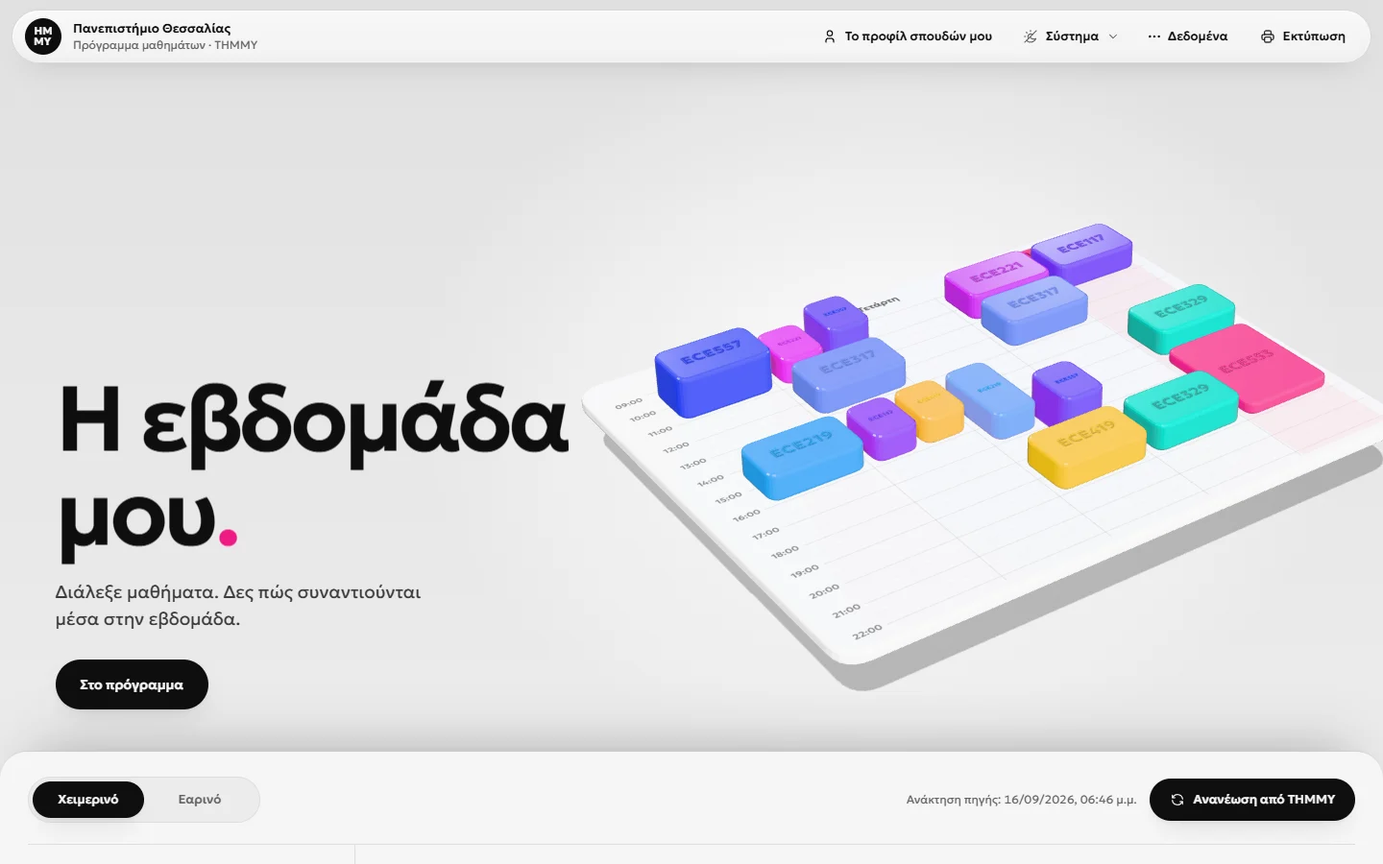
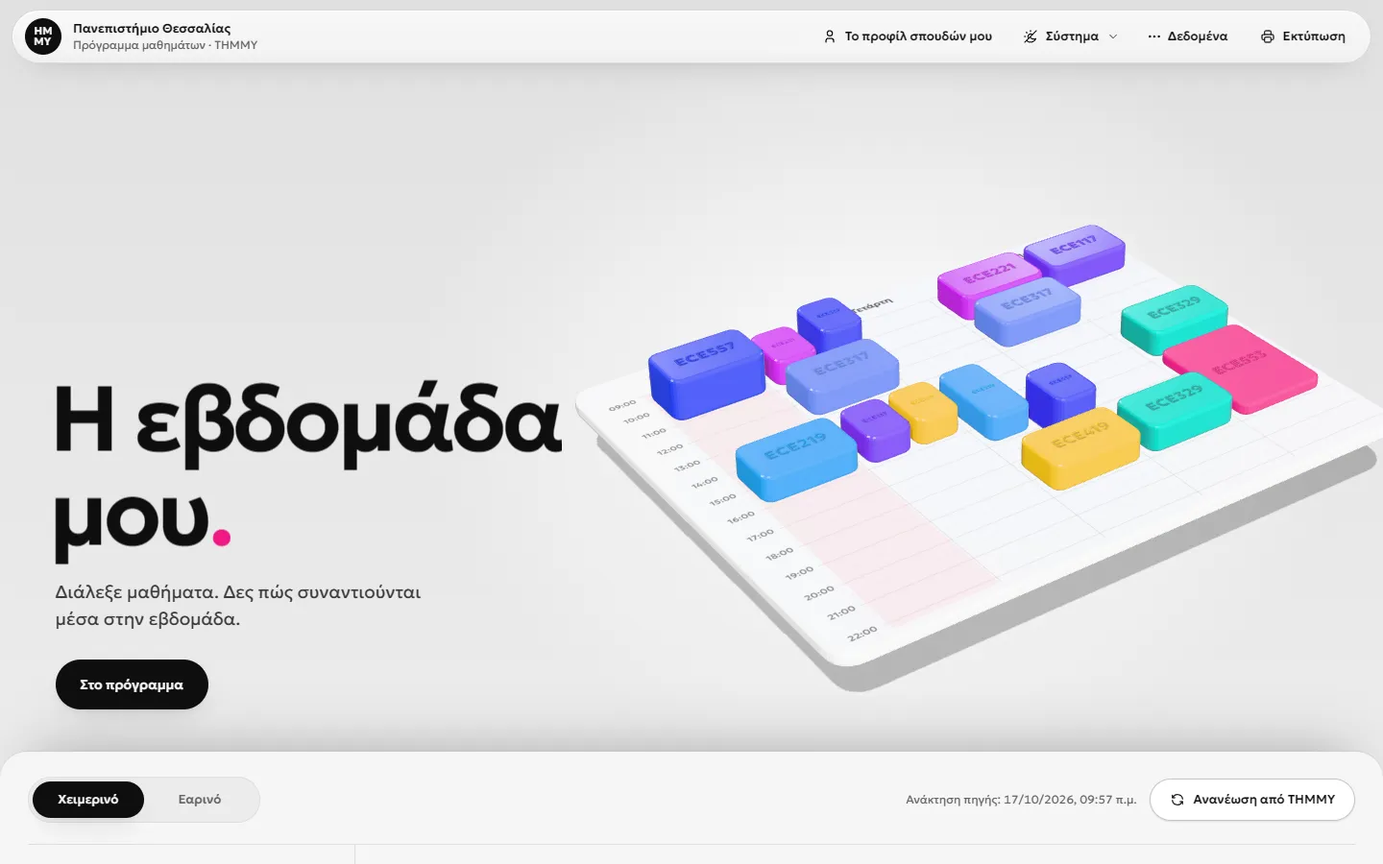
Bring the docs and screenshots up to date
PRODUCT.md no longer invites a redesign or new dependencies, README explains the tests and drops the bundled Noto fonts, DESIGN.md and its mirrors describe the polished blocks, buttons, focus and sheet, and the screenshots show the current UI. .gitignore loses two entries from an abandoned build.

diff --git a/DESIGN.md b/DESIGN.md
@@ -279,18 +279,18 @@ The world is modelled on butter.video, chosen by the user. Rejected and not to r
 A monochrome studio with one neon voice; all saturation is reserved for courses.
 
 ### Primary
-- **Neon Hot Pink** (`neon-pink`, dark `dark-neon-pink`): the headline's full stop, today's day pill, the today column wash (5% mix), the course "add" hover, the rail button's count badge, link hover underlines, selection and caret. Text on it is always ink (`on-accent`). Its hover step is `neon-pink-hover`.
+- **Neon Hot Pink** (`neon-pink`, dark `dark-neon-pink`): the headline's full stop, today's day pill, the today column wash (5% mix), the course "add" hover (fine pointers only), the rail button's count badge, link hover underlines, selection and caret. Text on it is always ink (`on-accent`). Its hover step is `neon-pink-hover`.
 
 ### Neutral
 - **Studio Grey** (`studio-grey` / `dark-studio-grey`): page ground behind the hero and around the sheet.
 - **Studio Floor and Glow** (`studio-floor`, `studio-glow` and dark pair): the hero's vertical gradient and the radial key-light pool behind the 3D board.
 - **Planner Sheet** (`planner-sheet` / `dark-planner-sheet`): the sheet that rises over the hero; also the text colour on ink pills.
-- **Surfaces** (`surface`, `surface-2`, `surface-3` and dark counterparts): raised cards, dialogs and menus (`surface`); input wells, segmented tracks and callouts (`surface-2`); tags and skeleton peaks (`surface-3`).
+- **Surfaces** (`surface`, `surface-2`, `surface-3` and dark counterparts): raised cards, dialogs and menus (`surface`); input wells, segmented tracks, callouts, the empty state and a selected course's add button (`surface-2`); tags, skeleton peaks and, in dark mode, a selected course's add button (`surface-3`, since dark `surface-2` barely parts from the row).
 - **Hairlines** (`hairline`, `hairline-strong`): 1px dividers between rail rows, day columns and stat cells; strong hairlines for button borders and unchecked swatches.
 - **Ink** (`ink`, `ink-2`, `ink-3`): text, primary buttons, the brand mark, the season thumb, focus rings. Ink-3 is the floor for meta text.
 
 ### Course palette
-Nine vivid hues assigned per course by default, cycling without repeats among selected courses: cobalt, hot pink, tangerine, violet, aqua, lemon, sky, orchid, periwinkle. Blocks use the hue at full strength with a white top sheen; in dark mode the hue is mixed 90% with the surface. Text on a block is ink or white, whichever gives higher WCAG contrast against the hue. In the 3D hero the same hues are darkened to 90% lightness under a full clearcoat; as the board lands, each slab top shifts to its block's exact flat fill so the hand-over is seamless. An empty week shows chrome sample slabs.
+Nine vivid hues assigned per course by default, cycling without repeats among selected courses: cobalt, hot pink, tangerine, violet, aqua, lemon, sky, orchid, periwinkle. Blocks use the hue at full strength with a lit top lip: a crisp 1px white top highlight over a white gradient that is gone 9px down, above the text (the narrowest lanes start their glyphs 8px down, where every hue still clears 4.5:1), because a taller sheen behind white text pushed cobalt (light) and dark violet below 4.5:1. In dark mode the hue is mixed 90% with the surface. Text on a block is ink or white, whichever gives higher WCAG contrast against the fill it sits on: the hue in light mode, the 90% mix in dark mode. In the 3D hero the same hues are darkened to 90% lightness under a full clearcoat; as the board lands, each slab top shifts to its block's exact flat fill so the hand-over is seamless. An empty week shows chrome sample slabs.
 
 ### Semantic
 - **Success** (passed course), **Warning** (needs review), **Danger** (overlap). Each has a soft companion at 7-12% alpha for callout fills.
@@ -300,18 +300,18 @@ Nine vivid hues assigned per course by default, cycling without repeats among se
 
 **The Colour Is the Course Rule.** Saturation belongs to the course palette. Chrome stays grey and ink; no course is ever grey, and no course hue is pure green, amber or red, so courses can never be mistaken for a state. One exception, accepted by the user: the liquid glass on the header pill and the hero tooltip saturates what lies beneath it (1.8), so a course passing under the frost reads as slightly richer colour, never as chrome colour. Over a cobalt slab the tooltip shows a faint blue with legible text; a coloured slab under the header pill is untested.
 
-**The Never Colour Alone Rule.** Every semantic state carries a second signal: passed is a filled green swatch plus a check icon; review is a dashed amber outline plus a hatch; overlap is a solid red outline plus a warning icon.
+**The Never Colour Alone Rule.** Every semantic state carries a second signal: passed is a filled green swatch plus a check icon; review is a dashed amber outline plus a hatched strip; overlap is a solid red outline plus a warning icon.
 
 ## Typography
 
-**Display Font:** Geologica (self-hosted Greek and Latin subsets, variable 300-800), with Noto Sans and system-ui as fallback
+**Display Font:** Geologica (self-hosted Greek and Latin subsets, variable 300-800), with Noto Sans and system-ui as fallback (Noto Sans is only named in the stack; it is not bundled)
 **Body Font:** Geologica
 **Label/Mono Font:** Geologica; a monospace face appears only in the transfer-code textarea
 
 **Character:** One geometric grotesk with Greek built in, used at every size. Display sizes are heavy-ish and tightly tracked; working sizes stay plain and small, so the numbers and the headline do the shouting.
 
 ### Hierarchy
-- **Display** (620, clamp(52px, 7.2vw, 96px), 0.98, -0.04em): the two-line hero headline only, revealed line by line from masks. **Display phone** takes over at 860px and below.
+- **Display** (620, clamp(52px, 7.2vw, 96px), 0.98, -0.04em): the two-line hero headline only, revealed line by line from masks and pulled 0.07em left so the capital's side bearing lines up with the sub and the CTA. **Display phone** takes over at 860px and below.
 - **Stat** (560, clamp(40px, 4.4vw, 66px), 1.2, -0.04em): the four week totals, rendered as odometer digits; **Stat phone** (38px) at 860px and below.
 - **Headline** (600, 24px, 1.2, -0.03em): dialog titles.
 - **Title large** (600, 22px, 1.2, -0.025em): the empty-state title.
@@ -323,7 +323,7 @@ Nine vivid hues assigned per course by default, cycling without repeats among se
 - **Event title** (600, 13px, 1.25): course names inside blocks; time lines 11px 600.
 - **Meta** (400, 12px): course meta, sync time, footers, tooltips.
 - **Label** (600, 11.5px): tags, badges, counters, day-head meta. Sentence case, never uppercase.
-- **Print ramp** (print only): title 22px, stats 20px, day names 11px, event titles 9px, event times, rooms and day meta 8px. Teachers are dropped.
+- **Print ramp** (print only): title 22px (followed by the season and the data's date at 13px in ink-3), stats 20px, day names 11px, event titles 9px, event times, rooms and day meta 8px. Teachers are dropped.
 
 ### Named Rules
 **The Numbers Are the Headline Rule.** Figures are tabular everywhere, and the week's totals are set at display scale, not tucked into small chips.
@@ -335,8 +335,8 @@ Nine vivid hues assigned per course by default, cycling without repeats among se
 A week-first canvas inside a sheet. The hero is a full-viewport sticky studio (100svh, min 600px; 92svh on phones); the planner sheet overlaps it by 13svh (9svh on phones) and carries everything else. Content tracks a 2080px maximum with fluid 2vw gutters (16px on phones).
 
 - **Desktop (>1180px):** a 340px sticky course rail beside the week, divided by a hairline. On wide layouts the rail can be hidden so the week runs full-width, with the floating rail button to bring it back.
-- **Tablet (861-1180px):** the week takes the full width; the rail becomes a 340px side drawer floating 12px from the edges.
-- **Phone (<=860px):** the week becomes a vertical day-by-day agenda with sticky day headings; the rail becomes a bottom sheet (84dvh, grab handle, scrim); dialogs become bottom sheets; the sheet corners drop to the phone sheet radius.
+- **Tablet (861-1180px):** the week takes the full width; the rail becomes a 340px side drawer floating 12px from the edges. It slides in over 500ms and out in 200ms, and tabbing out of it closes it.
+- **Phone (<=860px):** the week becomes a vertical day-by-day agenda with sticky day headings; the rail becomes a bottom sheet (84dvh, grab handle, scrim; up in 500ms, down in 200ms) that a finger can drag down from its handle or heading, closing past 80px or on a quick downward flick (over 0.5px/ms at release) and otherwise springing back; dialogs become bottom sheets; the sheet corners drop to the phone sheet radius.
 - A floating ink "Μαθήματα" pill with the selected count opens the rail from anywhere once the planner is in view.
 
 Day headings (name, meta, today pill) are centred in their columns and reserve exactly two lines of meta (2.7em) so every day name aligns. Today's meta puts "Σήμερα" on its own line above "N συναντήσεις · N ώρες". On the phone agenda, headings are a left-aligned row and the word runs inline with a comma. Phones and print drop the two-line reservation.
@@ -344,26 +344,26 @@ Day headings (name, meta, today pill) are centred in their columns and reserve e
 Spacing runs on 4 / 8 / 12 / 16 / 22 / 28px; panels breathe at 22px vertical padding, the hour grid is 56px per hour, and the header bar is 76px (68px on phones).
 
 ### Named Rules
-**The No Sideways Week Rule.** The week never scrolls horizontally. The grid is a 54px hour axis plus five equal day columns, whatever they hold. Parallel lessons split their day into lanes, and narrow lanes step down by container width. At 112px or less a lane shows its start time and the name, set compact with soft hyphens at Greek syllable breaks. At 80px or less, and for lessons of an hour or less, it shows start time plus course code. At 60px or less it shows the code only. At 50px or less the shared ECE prefix drops and only the course number remains. The full name always stays in the tooltip and dialog. Margin notes move beside the week only when the busiest day still gets 150px per lane.
+**The No Sideways Week Rule.** The week never scrolls horizontally. The grid is a 54px hour axis (headed Ώρα) plus five equal day columns, whatever they hold. Parallel lessons split their day into lanes, and narrow lanes step down by container width. At 112px or less a lane shows its start time and the name, set compact with soft hyphens at Greek syllable breaks; wider lanes never hyphenate and wrap whole words. At 80px or less, and for lessons of an hour or less, it shows start time plus course code. At 60px or less it shows the code only. At 50px or less the shared ECE prefix drops and only the course number remains. The full name always stays in the tooltip and dialog. Margin notes move beside the week only when the busiest day still gets 150px per lane. There the checks are a sticky margin note that mirrors the rail, always open, with their summary as a heading rather than a toggle (out of the tab order), and the hairline dividing them from the week runs the full height of the sheet while the note stays put.
 
-**The Print Is Its Own Layout Rule.** Print is one A4 landscape sheet in the selected theme: chrome hidden, the sheet and blocks exactly as on screen (light or dark), no today marking, the week scaled to fit and forced fully visible, the print type ramp, all motion and shadows off. Nothing on the printed page sizes itself with viewport units, because Chrome's print preview resolves them against the browser window and a window-tall page spills a blank second sheet.
+**The Print Is Its Own Layout Rule.** Print is one A4 landscape sheet in the selected theme: chrome hidden, the sheet and blocks exactly as on screen (light or dark), no today marking, the title followed by the season and the data's date, the week scaled to fit and forced fully visible, the print type ramp, all motion, shadows and focus rings off. Nothing on the printed page sizes itself with viewport units, because Chrome's print preview resolves them against the browser window and a window-tall page spills a blank second sheet.
 
 ## Elevation & Depth
 
-A hybrid: soft, layered ambient shadows plus a 1px top highlight on raised surfaces in light mode; on ink, where shadows vanish, a hairline marks every raised edge instead. Real depth lives in the hero, where a physically lit 3D board sits on a shadow-catching floor. Lighting is tuned per theme: in light mode a strong key from the upper left with a soft rim, in dark mode a softer key with a stronger cool rim. The floor shadow is 24% in light mode and 60% in dark mode. The board carries hairline edge lines. In light mode it is near-white and clearcoated; in dark mode it is graphite, rougher, with little clearcoat. The 3D stage is its own fixed layer above the planner sheet. It is clipped away over the sheet's toolbar and stats band and over the docked rail, so the board slides under the planner's chrome. Frosted glass is reserved for things floating over content: the header pill (20px blur, 1.8 saturate), the hero tooltip (12px blur, 1.8 saturate) and the dialog backdrop (8px blur). The two floating surfaces, the header pill and the hero tooltip, are liquid glass: the event blocks' top sheen, and a rim lit from the upper left (a bright 1px top-left crescent, a faint lower-right line, a lens shade along the inner bottom and a soft inner edge glow) in place of the plain top highlight. The rim is a plain-CSS approximation; true refraction needs SVG filters in backdrop-filter, which only Chromium supports. Under reduced transparency both turn solid surface with no blur. The dialog backdrop stays plain frost with no rim.
+A hybrid: soft, layered ambient shadows plus a 1px top highlight on raised surfaces in light mode; on ink, where shadows vanish, a hairline marks every raised edge instead. Real depth lives in the hero, where a physically lit 3D board sits on a shadow-catching floor. Lighting is tuned per theme: in light mode a strong key from the upper left with a soft rim, in dark mode a softer key with a stronger cool rim. The floor shadow is 24% in light mode and 60% in dark mode. The board carries hairline edge lines. In light mode it is near-white and clearcoated; in dark mode it is graphite, rougher, with little clearcoat. The 3D stage is its own fixed layer above the planner sheet. It is clipped away over the sheet's toolbar and stats band and over the docked rail, so the board slides under the planner's chrome. Frosted glass is reserved for things floating over content: the header pill (20px blur, 1.8 saturate), the hero tooltip (12px blur, 1.8 saturate) and the dialog backdrop (8px blur). The two floating surfaces, the header pill and the hero tooltip, are liquid glass: a white top sheen that fades out by 46% of the height, and a rim lit from the upper left (a bright 1px top-left crescent, a faint lower-right line, a lens shade along the inner bottom and a soft inner edge glow) in place of the plain top highlight. The rim is a plain-CSS approximation; true refraction needs SVG filters in backdrop-filter, which only Chromium supports. Under reduced transparency both turn solid surface with no blur. The dialog backdrop stays plain frost with no rim.
 
 ### Shadow Vocabulary
 - **Rest** (`0 1px 2px #0e0e0e12, 0 1px 1px #0e0e0e0a`): default buttons and event blocks.
 - **Lifted** (`0 12px 28px -12px #0e0e0e2e, 0 2px 6px -2px #0e0e0e14`): ink pills, the season thumb, hovered event blocks, tooltips.
 - **Floating** (`0 32px 64px -24px #0e0e0e40, 0 6px 16px -6px #0e0e0e17`): dialogs, menus, the rail drawer, the rail button.
 - **Highlight** (`inset 0 1px 0 #ffffffcc`): paired with lifted and floating surfaces.
-- **Glass rim** (light `inset 1px 1px 0 #ffffff, inset -1px -1px 0 #ffffff40, inset 0 -10px 16px -12px #0e0e0e14, inset 0 0 14px -6px #ffffffb3`; dark `inset 1px 1px 0 #ffffff47, inset -1px -1px 0 #ffffff1a, inset 0 -10px 16px -12px #00000066, inset 0 0 14px -6px #ffffff1f`): the header pill and the hero tooltip only, replacing the highlight there. It travels with the **glass sheen** (`linear-gradient(180deg, #ffffff66, #ffffff00 46%)`; dark `#ffffff26`, the event blocks' stop and dark strength) and, on the header pill, the **glass fill** (surface at 64% in light so the sheen and lit edge read, 72% in dark); the tooltip keeps its 86% surface fill and, in dark, its hairline.
+- **Glass rim** (light `inset 1px 1px 0 #ffffff, inset -1px -1px 0 #ffffff40, inset 0 -10px 16px -12px #0e0e0e14, inset 0 0 14px -6px #ffffffb3`; dark `inset 1px 1px 0 #ffffff47, inset -1px -1px 0 #ffffff1a, inset 0 -10px 16px -12px #00000066, inset 0 0 14px -6px #ffffff1f`): the header pill and the hero tooltip only, replacing the highlight there. It travels with the **glass sheen** (`linear-gradient(180deg, #ffffff66, #ffffff00 46%)`; dark `#ffffff26`; the event blocks' lip is a weaker cousin, light `#ffffff2e` and dark `#ffffff1c`, gone 9px down) and, on the header pill, the **glass fill** (surface at 64% in light so the sheen and lit edge read, 72% in dark); the tooltip keeps its 86% surface fill and, in dark, its hairline.
 - **Sheet rise** (`0 -30px 60px -34px #0e0e0e59`): under the planner sheet's top edge where it overlaps the hero.
 
 ### Named Rules
 **The Press, Don't Lift Rule.** Controls press (scale 0.96 on active) and never rise on hover. Only event blocks lift (2px) on hover, because they are objects on the board, and only where a fine pointer can hover ((hover: hover) and (pointer: fine)), so a tap never leaves a block stuck raised.
 
-**The Rings Inside Rule.** State and highlight outlines on event blocks sit inside the block (negative offset), never outside it.
+**The Rings Inside Rule.** State and highlight outlines on event blocks sit inside the block (negative offset), never outside it. Keyboard focus is the one ring outside: the 2px ink outline offset 2px, raised above the neighbouring lanes. A block with a state ring keeps it, and its focus ring is a shadow outside the block (a 2px sheet gap, then 2px ink), so a focused clash still shows red.
 
 **The Hairline in the Dark Rule.** In dark mode every raised surface (dialog, menu, tooltip, drawer, sheet) gets a 1px hairline edge, since shadows cannot read on ink.
 
@@ -376,11 +376,12 @@ Two shape families and nothing between them: everything pressable or countable i
 ### Buttons
 Pills that press, never lift.
 - **Shape:** full pill (999px), 38px minimum height, 1px strong hairline border.
-- **Default:** surface fill, rest shadow, 13px weight 550 label with an optional 16px Tabler stroke icon.
-- **Primary:** ink fill with sheet-coloured text and the lifted shadow; hover mixes 20% neon pink into the ink.
+- **Default:** surface fill, rest shadow, 13px weight 550 label with an optional 16px Tabler stroke icon. The refresh button in the sheet's toolbar is a default pill at 44px, not ink.
+- **Primary:** ink fill with sheet-coloured text and the lifted shadow; with a fine pointer, hover mixes 20% neon pink into the ink.
 - **Quiet:** transparent; hover is a 7% ink wash.
-- **Hero CTA and rail button:** 52px ink pills; the rail button carries a pink count badge and rises in only once the sheet docks.
-- **Active / Focus:** scale 0.96 on press; a 2px ink focus outline offset 2px.
+- **Hero CTA and rail button:** 52px ink pills; the rail button carries a pink count badge and rises in only once the sheet docks. Both take the primary hover.
+- **Coloured hovers** (the pink mix on ink pills, the pink and red fills on a rail row's add button) apply only under (hover: hover) and (pointer: fine), so a tap never leaves one stuck; neutral washes hover everywhere.
+- **Active / Focus:** scale 0.96 on press; a 2px ink focus outline offset 2px, the same on event blocks, checkboxes and the theme select.
 
 ### Chips
 - **Tags and badges:** pills on `surface-3` with ink-2 text at 11.5px weight 600; success, warning and danger variants use the soft fill and the state colour with an icon.
@@ -391,8 +392,9 @@ Pills that press, never lift.
 - **Corner Style:** 28px for the sheet and dialogs, 20px for menus and the drawer, 14px for callouts.
 - **Background:** `surface` for raised, `surface-2` for inset callouts and source rows.
 - **Shadow Strategy:** floating plus highlight for raised surfaces (see Elevation).
-- **Border:** transparent in light, hairline in dark; warning and danger callouts use a 24-30% tinted border on the soft fill.
+- **Border:** transparent in light, hairline in dark; warning and danger callouts use a 24-30% tinted border on the soft fill; a warning callout leads with a dot, a danger one with the warning icon.
 - **Internal Padding:** 28px dialogs, 11-16px callouts.
+- **Empty state:** an inset `surface-2` panel (20px corners, no border, no wash) with a tiny week glyph on a small raised card: five 16px day columns, one 3px-cornered block placed in each at its own hour (one of them pink, today), dropping in from above one after another, above the title and two lines of help.
 - **Dialogs in motion:** they rise in on the ease-out (450ms; phone bottom sheets slide up in 500ms). Closing, whether by a close button, Escape or a finished action, runs back the way they came: a fade with an 8px drop and 0.98 scale over 160ms on the ease-out, the frosted backdrop fading with it; phone bottom sheets slide back down (200ms). Instant under reduced motion.
 - **Update toast:** when a new version is published (sw.js has already cached its files), a pill on `surface` with the lifted shadow floats 10px under the header: "Υπάρχει νέα έκδοση." with a primary "Ανανέωση" and a quiet close. It eases in from above (400ms on the ease-out, from 10px higher at 0.96 scale) and, when closed, leaves upward the way it came (200ms); print and the HTML backup leave it out.
 - **Update report:** after a refresh or an import, a collapsed "Τι άλλαξε · N αλλαγές" card on `surface` sits right under the notice and lists what changed against the previous data, grouped as changed, added and removed meetings and catalog changes (season, code and name in ink, the detail in ink-2). The next notice hides it; print and the HTML backup leave it out.
@@ -400,17 +402,18 @@ Pills that press, never lift.
 ### Inputs / Fields
 - **Style:** 40px pill well on `surface-2` with a hairline border (44px with a leading icon for search).
 - **Focus:** border turns ink, a 3px 14%-ink ring appears, and the well brightens to `surface`.
-- **Checkboxes:** native, accent-coloured ink.
+- **Checkboxes:** native, accent-coloured ink; keyboard focus is the 2px ink outline offset 2px, not the field ring.
+- **File picker:** its button is a small surface pill with a strong hairline (hover `surface-2`).
 
 ### Navigation
-- **Header:** a fixed frosted pill floating 10px inside the viewport over the hero (brand mark, quiet profile, theme control, data menu, print). The theme control is one quiet pill: a leading icon that follows the choice (sun, moon, or sun-moon for system), the label and an inline chevron. As the sheet reaches it, a scroll-linked solid sheet-coloured bar fades in beneath it and it docks. On phones labels drop to 40px icon pills.
+- **Header:** a fixed frosted pill floating 10px inside the viewport over the hero (brand mark, quiet profile, theme control, data menu with Πηγές & ενημέρωση, Μεταφορά δεδομένων and Αποθήκευση αντιγράφου HTML, print). The theme control is one quiet pill: a leading ink icon that follows the choice (sun, moon, or sun-moon for system), the label and an inline ink-3 chevron; keyboard focus is the 2px ink outline. As the sheet reaches it, a scroll-linked solid sheet-coloured bar fades in beneath it and it docks. On phones labels drop to 40px icon pills.
 - **Season switch:** a segmented pill track whose ink thumb springs under the active season; switching re-deals the week. The old season's blocks lift away together, 8ms apart and capped at 120ms (skipped on the phone agenda); after 120ms the new season's blocks are dealt in by day, min(40, 360/n)ms apart, so the whole re-deal stays about half a second. The hero's 3D board re-deals through its normal rebuild: the old slabs shrink away and the new ones fall in with the squash, 40ms apart. Instant under reduced motion.
 
 ### Event Block (signature)
-The course as an object: a 12px block filled with the full course hue, a white top sheen, a 1px inner ink edge and the rest shadow; time on top (11px 600), title, then room and teacher at reduced opacity. Where a fine pointer can hover, hover lifts 2px to the lifted shadow; touch never lifts. Every ring is drawn inside the block's edge, so packed lanes never overlap their neighbours: review is a 2px dashed amber ring plus a hatch; conflict is a 2px red ring with a light inner band in the sheet colour, plus a warning icon. Hovering a rail row rings every block of that course with a 3px ink ring. The conflict trace pulses its red ring inward. When an added course creates a clash, only the block that was already on the week pulses, once and inward (ring offset -2px to -6px and back over 400ms on the there-and-back curve), timed to the newcomer's landing (600ms plus stagger after a flight, 150ms plus stagger after a dealt block); the newcomer never pulses. New blocks are dealt in Monday to Friday, 40ms apart (at most twelve steps), each pressing from scale 1.06 to size about its centre as it fades in, its shadow coming down from lifted to rest (220ms on the ease-out); a course flying in from the list is revealed the same way at the flight's landing (600ms). A removed block lifts away where it stood (180ms: the fade on a plain ease so it stays readable, a 1.04 scale on the ease-out), on the desktop grid only, and not when a neighbour widens into its lane or when the week becomes empty; a season switch lifts every old block away this way. While the 3D week stands in for the planner's blocks (mid-scroll, blocks below full opacity, no focus inside the week), the 2D blocks do not animate at all, with no press-in, lift-away, flight or clash pulse: a season switch, or a course added or removed mid-scroll, lands in 3D alone. Clicking grows the course dialog out of the block (400ms on the ease-out).
+The course as an object: a 12px block filled with the full course hue, a white top lip that is gone 9px down under a 1px top highlight, a 1px inner ink edge (white in dark) and the rest shadow; time on top (11px 600), title, then room and teachers (co-teachers joined by commas), all at full strength in the block's text colour. Where a fine pointer can hover, hover lifts 2px to the lifted shadow; touch never lifts. Keyboard focus draws the 2px ink outline offset 2px outside the block, above its neighbours; a block with a state ring keeps that ring, and its focus ring is drawn outside as a shadow (a 2px sheet gap, then 2px ink), so a focused clash still shows red. Every ring is drawn inside the block's edge, so packed lanes never overlap their neighbours: review is a 2px dashed amber ring plus a 10px hatched strip down the right edge, kept clear of the text; conflict is a 2px red ring with a light inner band in the sheet colour, plus a warning icon. Hovering a rail row rings every block of that course with a 3px ink ring. The conflict trace pulses its red ring inward. When an added course creates a clash, only the block that was already on the week pulses, once and inward (ring offset -2px to -6px and back over 400ms on the there-and-back curve), timed to the newcomer's landing (600ms plus stagger after a flight, 150ms plus stagger after a dealt block); the newcomer never pulses. New blocks are dealt in Monday to Friday, 40ms apart (at most twelve steps), each pressing from scale 1.06 to size about its centre as it fades in, its shadow coming down from lifted to rest (220ms on the ease-out); a course flying in from the list is revealed the same way at the flight's landing (600ms). A removed block lifts away where it stood (180ms: the fade on a plain ease so it stays readable, a 1.04 scale on the ease-out), on the desktop grid only, and not when a neighbour widens into its lane or when the week becomes empty; a season switch lifts every old block away this way. While the 3D week stands in for the planner's blocks (mid-scroll, blocks below full opacity, no focus inside the week), the 2D blocks do not animate at all, with no press-in, lift-away, flight or clash pulse: a season switch, or a course added or removed mid-scroll, lands in 3D alone. Clicking grows the course dialog out of the block (400ms on the ease-out).
 
 ### Course Rail Row
-A three-column row (12px state swatch, title and meta, 32px round add button) divided by hairlines. Adding a course flashes the row pink, pops the swatch, and flies a block on an arc from the swatch into each new slot of the week; a flight whose course is removed, or whose season is left, before it lands is dropped.
+A three-column row (12px state swatch, title and meta, 32px round add button with a hit area of at least 44px) divided by hairlines. The add button is a surface pill with a plus; once the course is selected it turns grey (`surface-2`, strong hairline, ink minus; in dark mode `surface-3` with no hairline, so selected and unselected rows still differ). With a fine pointer, hover fills it neon pink to add or danger red to remove. The list's last 28px fade out, so a row cut by the edge reads as more below, and bottom padding lets the last row scroll clear of the fade. Adding a course flashes the row pink, pops the swatch, and flies a block on an arc from the swatch into each new slot of the week; a flight whose course is removed, or whose season is left, before it lands is dropped.
 
 ### Stats
 Four cells divided by hairlines, a 12.5px label over a stat-scale odometer number whose digits spring to their new value with a 40ms stagger; overlaps turn the label and number danger red.
@@ -437,7 +440,7 @@ Free view lives only at the top of the page (scroll progress at most 0.002): gra
 - **Do** make primary actions ink pills; keep hot pink to small marks (full stop, today, counts, hover).
 - **Do** give every pressable thing a full pill shape and the 0.96 press.
 - **Do** let free-view interactions (orbit, zoom) yield to scroll and to the copy: plain wheel scrolls, the board springs home on scroll, and it never covers the headline.
-- **Do** pick block text colour by contrast (ink or white) for any course hue, including user-chosen ones.
+- **Do** pick block text colour by contrast (ink or white) for any course hue, including user-chosen ones, measured against the fill the text sits on (the dark-theme mix in dark mode).
 - **Do** pair every success, warning and danger state with an icon, dashes or an outline.
 - **Do** use the spring easing (`linear()` with ~5% overshoot, fallback cubic-bezier(.16,1,.3,1)) for things that settle into a new value or slot (digits, the season thumb, a block shifting lanes), the ease-out (cubic-bezier(.16,1,.3,1)) for the 2D press-in and for exits, and the there-and-back curve (cubic-bezier(.77,0,.175,1)) only for one-shot pulses that return to rest; make every animation, view transition, smooth scroll and 3D loop disappear under reduced motion.
 - **Do** deal tiles and blocks onto the week Monday to Friday (by day, then start time), 40ms apart and the whole deal held to about half a second (bigger weeks close the gap), with one landing per change: in 3D a fall that accelerates under gravity and ends in a squash, never a spring that overshoots into the board; in 2D a press from scale 1.06 to size about the block's centre, with a fade and the lifted shadow coming down to rest (220ms on the ease-out). While the 3D week stands in for the planner's blocks, the change lands in 3D alone.

diff --git a/README.md b/README.md
@@ -60,7 +60,7 @@ flowchart LR
 
 - **Nightly.** At 02:17 UTC, [`refresh-data.yml`](.github/workflows/refresh-data.yml) downloads the catalogue and both timetables. It parses them with the app's own [`source-parser.js`](assets/source-parser.js) in headless Chrome, so the result is exactly what the app would produce. It commits only when something changed, and refuses results that look broken (a shrunken catalogue, or a published timetable that came back empty).
 - **On your next visit,** the planner takes the new snapshot in the way a manual refresh does: your meeting choices are remapped, selected courses that left the catalogue are kept, and *Τι άλλαξε* shows the differences.
-- **On demand,** *Ανανέωση από ΤΗΜΜΥ* fetches the same pages from the browser through a public CORS proxy (r.jina.ai or allorigins, chosen in *Πηγές & ενημέρωση*). You can also import an official page you saved yourself.
+- **On demand,** *Ανανέωση από ΤΗΜΜΥ* fetches the same pages from the browser through a public CORS proxy (r.jina.ai or allorigins) or directly, chosen in *Πηγές & ενημέρωση*. You can also import an official page you saved yourself.
 
 ## Privacy
 
@@ -92,16 +92,17 @@ assets/
   motion.js               smooth scrolling (Lenis) and loading the 3D week
   week3d.js               the 3D week, bundled from src/week3d.js
   vendor/lenis.min.js
-  fonts/                  Geologica and Noto Sans subsets, with OFL.txt
+  fonts/                  Geologica subsets, with OFL.txt
   icons/                  app icons
 data/
   courses.json            catalogue and timetables, refreshed nightly
   guide.json              study-guide rules behind the checks
 src/week3d.js             source of the 3D week (Three.js)
 scripts/refresh-data.mjs  the nightly data refresh
+scripts/*.test.mjs        tests: week logic and transfer codes (app.test), the source parser in headless Chrome (parser.test)
 .github/workflows/        refresh-data.yml
 docs/screenshots/         images for this README
-DESIGN.md, PRODUCT.md     design system and product notes (.impeccable/ holds their machine-readable form)
+DESIGN.md, PRODUCT.md     design system and product notes (.impeccable/ holds the design tokens as JSON and the page's surface brief)
 ```
 
 ## Development
@@ -128,6 +129,12 @@ node scripts/refresh-data.mjs --dry-run   # report what changed, write nothing
 node scripts/refresh-data.mjs             # update data/courses.json and its version in index.html
 ```
 
+**Tests** need Node 22 or newer; the parser tests also need Chrome (set `CHROME_PATH` if it is not in its usual place, or they are skipped):
+
+```sh
+node --test
+```
+
 To run the nightly job right away, use *Run workflow* on the [workflow's page](https://github.com/FueledByRedBull/thmmy-planner/actions/workflows/refresh-data.yml), or `gh workflow run refresh-data.yml`. Commits made with the workflow's token do not start a Pages build on their own, so the job requests one.
 
 **Updates and the service worker.** Updates need no extra step. The page asks `sw.js` to check for a new `index.html` when it loads, when it comes back into view and every half hour. A changed page has its files (read from `index.html`, `assets/motion.js` and `assets/styles.css`) cached first; the page then shows a "new version" prompt whose reload is instant. Change `CACHE` in `sw.js` only when its own caching changes; the new worker then waits behind the same prompt. If a published `sw.js` ever misbehaves, replace it with one whose `install` and `activate` handlers call `self.registration.unregister()`.
@@ -137,7 +144,7 @@ Design decisions live in [`DESIGN.md`](DESIGN.md) and [`PRODUCT.md`](PRODUCT.md)
 ## Credits
 
 - Timetables and catalogue: the public pages of the department at [e-ce.uth.gr](https://www.e-ce.uth.gr/).
-- [Geologica](https://github.com/googlefonts/geologica) and [Noto Sans](https://github.com/notofonts/latin-greek-cyrillic), SIL Open Font License 1.1 ([`assets/fonts/OFL.txt`](assets/fonts/OFL.txt)).
+- [Geologica](https://github.com/googlefonts/geologica), SIL Open Font License 1.1 ([`assets/fonts/OFL.txt`](assets/fonts/OFL.txt)).
 - [Three.js](https://threejs.org/) (MIT, notice at the end of `assets/week3d.js`), [Lenis](https://github.com/darkroomengineering/lenis) (MIT) and [Tabler Icons](https://tabler.io/icons) (MIT).
 
 This is an unofficial tool. The official course declaration is made in the university's Electronic Secretariat (Ηλεκτρονική Γραμματεία).

diff --git a/.impeccable/surfaces/index-html.md b/.impeccable/surfaces/index-html.md
@@ -20,10 +20,10 @@ OWN-WORLD: Neutral studio greys (#ededed light / #0b0b0b dark) with an off-white
 
 STORY: A student lands on their own week as an object, scrolls and the board tilts flat while the planner sheet rises, adds courses from a rail that is always within reach (docked, drawer, or phone sheet) until nothing is red, then prints one A4 sheet.
 
-FIRST VIEWPORT: Floating frosted pill nav (brand, profile, theme, data menu, print). Two-line display headline "Η εβδομάδα μου." bottom-left, one-sentence sub, ink pill CTA "Στο πρόγραμμα". The Three.js week board fills the space right of the headline (above it on phones), reacts to the cursor, shows a tooltip on hover and opens the course dialog on click. The planner sheet's toolbar (season switch, refresh) peeks at the bottom.
+FIRST VIEWPORT: Floating frosted pill nav (brand, profile, theme, data menu, print). Two-line display headline "Η εβδομάδα μου." bottom-left, one-sentence sub, ink pill CTA "Στο πρόγραμμα". The Three.js week board fills the space right of the headline (above it on phones), reacts to the cursor, shows a tooltip on hover and opens the course dialog on click. The planner sheet's toolbar (season switch, refresh as a surface pill) peeks at the bottom.
 
 FORM: user-reference-led, no seed key. The user pointed at https://www.butter.video/ ("i also meant this") and then picked, in their own words and choices: "Butter + live 3D week", palette "Butter mono + neon", layout "i wanna pick the fist option so Week-first canvas" plus "find a fitting font". Butter-derived studio (Lenis smooth scroll, Three.js hero, giant grotesk, scroll-linked rise, pill nav) applied to an Operate surface. Signature motion: line-mask headline reveal; board rise with its slabs dealt onto it; the tiles are objects and the board their tray, so whenever the week changes place or content the tiles leave the tray and are dealt back Monday to Friday with one landing (scrolling down lifts them and deals them into the planner, each becoming its block; scrolling back up throws them to the sky and drops them onto the board; a hard spin by hand flings them onto the studio floor and they hop back; a season switch re-deals the week, replacing the earlier 3D page turn at the user's request); scroll tilts the camera top-down as the stage recedes and the sheet rises; header docks onto a solid bar; odometer stats; a course flies on an arc from its row into its slot; course dialog grows out of the clicked block. In the hero the board is a free-view object: drag to orbit (pitch limited above the board), pinch or Ctrl+wheel to zoom within a range, double-click to reset; it glides home as soon as the page scrolls, and the headline, sub and button stay in front of it. Slab height encodes how often a course meets in the week. Everything collapses to a static, instant path under reduced motion.
 
-LAYOUT RULES: The week never scrolls sideways. Five equal day columns whatever they hold; parallel lessons split their day into lanes, and narrow lanes step down from start time plus course code (112px or less) to the code (60px or less) to the course number without the shared ECE prefix (50px or less), with the full name in the tooltip and dialog; tablets get the full-width week with the rail as a side drawer; phones get a vertical day-by-day agenda with the rail as a bottom sheet. A floating "Μαθήματα" pill with the selected count opens the rail from anywhere once the planner is in view.
+LAYOUT RULES: The week never scrolls sideways. Five equal day columns whatever they hold; parallel lessons split their day into lanes, and narrow lanes step down from start time plus the name, soft-hyphenated only at this width (112px or less), to start time plus course code (80px or less, or a lesson of an hour or less), to the code (60px or less) to the course number without the shared ECE prefix (50px or less), with the full name in the tooltip and dialog; tablets get the full-width week with the rail as a side drawer; phones get a vertical day-by-day agenda with the rail as a bottom sheet that drags or flicks down from its handle or heading. A floating "Μαθήματα" pill with the selected count opens the rail from anywhere once the planner is in view.
 
 FINISH: unreviewed and undocumented is unfinished; this build ends with the finish review, the verdict, DESIGN.md, and every shipping raster carrying its provenance

diff --git a/PRODUCT.md b/PRODUCT.md
@@ -22,7 +22,7 @@ It is built on the department's own published timetables (e-ce.uth.gr) and study
 
 - It is used on laptops and phones around registration periods and during the semester (Χειμερινό / Εαρινό seasons).
 - There are no accounts. All state (selections, passed courses, profile, colors, theme) lives in the browser's localStorage and moves between devices through a short THMMY2 transfer code (choices only; the timetable itself is reloaded from the source) or file. Older THMMY1 codes, which embed the whole timetable, still import.
-- Data refresh fetches public e-ce.uth.gr pages through Jina Reader, AllOrigins, or directly. Users can also import a saved official HTML page manually.
+- The timetable is refreshed nightly by a GitHub Action (`scripts/refresh-data.mjs`). In the app, *Ανανέωση από ΤΗΜΜΥ* fetches the public e-ce.uth.gr pages through Jina Reader, AllOrigins, or directly. Users can also import a saved official HTML page manually.
 - Printing or saving the week as a PDF is a core ritual.
 
 ## Capabilities and Constraints
@@ -30,19 +30,19 @@ It is built on the department's own published timetables (e-ce.uth.gr) and study
 - The capabilities are course catalog search and filters (semester, offered/selected/all/passed), fall/spring season switch, and a week calendar with overlap detection. The app also offers color by semester or course, course detail dialogs, a study profile, a program/registration check panel, a study-guide rules dialog, sources and refresh, data transfer (export/import code), a self-contained HTML copy download, a light/dark/system theme, and print.
 - **Must keep working:** the GitHub Pages version (static `index.html` + `assets/` + `data/`) and print/PDF output.
 - The standalone `THMMY-programma.html` is not a required target and may drift from the redesigned version.
-- New dependencies are allowed. The CSP in `index.html` currently limits scripts, styles, and fonts to self-hosted assets, so any new asset must be vendored or the CSP updated deliberately.
+- Keep the footprint small: no new dependencies, fonts or font weights without the owner's say. The CSP in `index.html` limits scripts, styles, and fonts to self-hosted assets, so any new asset must be vendored or the CSP updated deliberately.
 - The UI language is Greek (`lang="el"`), and all copy is Greek.
 
 ## Brand Commitments
 
 - Name: "Η εβδομάδα μου · ΤΗΜΜΥ". The ΗΜΜΥ mark and the "ΠΑΝΕΠΙΣΤΗΜΙΟ ΘΕΣΣΑΛΙΑΣ" line appear in the current masthead.
 - Voice: short, direct, second-person Greek ("Διάλεξε μαθήματα. Δες πώς συναντιούνται μέσα στην εβδομάδα.").
-- The user asked for a full visual redesign with motion graphics and skeleton loaders. The existing look is evidence only, not something to preserve.
+- The look is established and documented in DESIGN.md (Geologica, neutral studio greys, one neon-pink accent, saturated per-course colours, pill controls, the 3D board hero that morphs into the 2D week). Polish within it; do not redesign.
 
 ## Evidence on Hand
 
 - `data/courses.json` holds the catalog plus fall and spring timetables. `data/guide.json` holds the 2024–25 study-guide rules, checks, and uncertainties.
-- Self-hosted Noto fonts are in `assets/fonts/`.
+- Self-hosted Geologica (Greek and Latin subsets, variable 300-800) is in `assets/fonts/`. Noto Sans is only named in the font stack as a fallback; it is not bundled.
 - There are no testimonials, usage numbers, or endorsements. Do not fabricate any, and do not imply the department officially endorses the app.
 
 ## Product Principles
